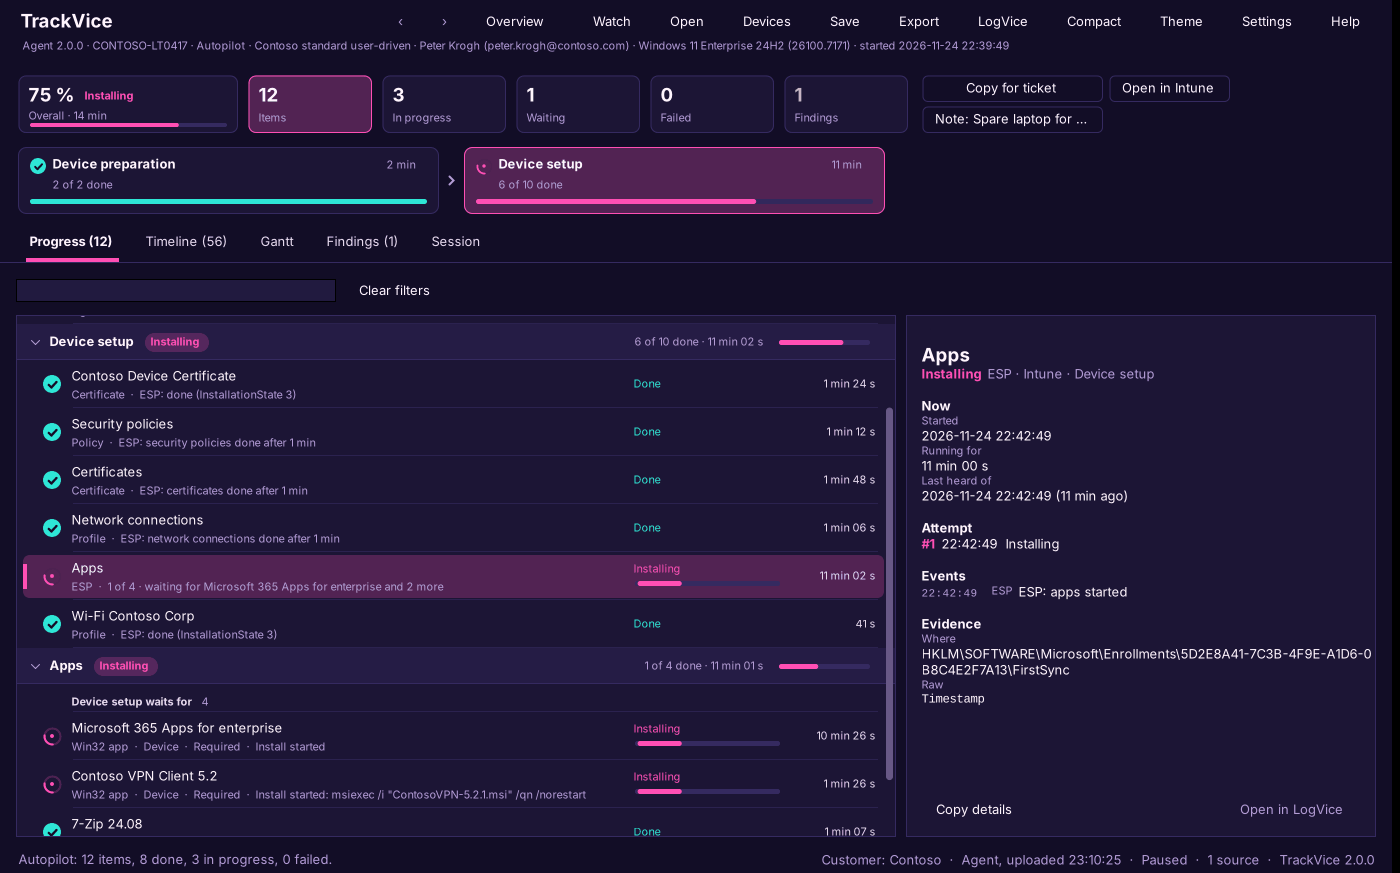
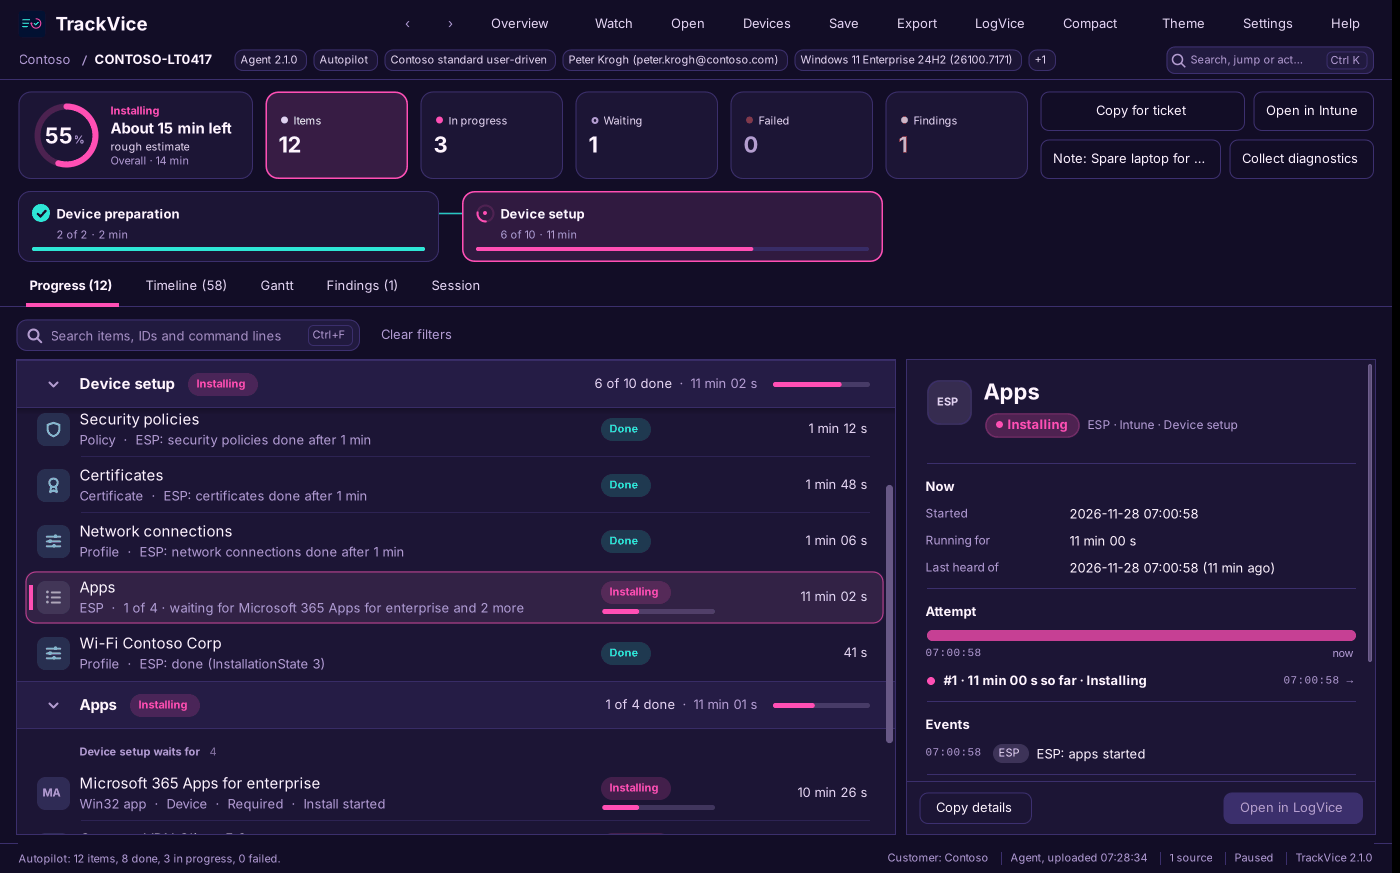
TrackVice 2.1.0: Collect diagnostics, Pre-flight check, customer report, Ctrl+K, and a new look

diff --git a/src/AssemblyInfo.cs b/src/AssemblyInfo.cs
@@ -6,8 +6,8 @@ using System.Runtime.InteropServices;
 [assembly: AssemblyProduct("TrackVice")]
 [assembly: AssemblyCompany("Daniel L. Baldissera")]
 [assembly: AssemblyCopyright("Copyright © 2026 Daniel L. Baldissera")]
-[assembly: AssemblyVersion("2.0.11.0")]
-[assembly: AssemblyFileVersion("2.0.11.0")]
-[assembly: AssemblyInformationalVersion("2.0.11")]
+[assembly: AssemblyVersion("2.1.0.0")]
+[assembly: AssemblyFileVersion("2.1.0.0")]
+[assembly: AssemblyInformationalVersion("2.1.0")]
 [assembly: ComVisible(false)]
 [assembly: System.Runtime.Versioning.TargetFramework(".NETFramework,Version=v4.5", FrameworkDisplayName = ".NET Framework 4.5")]

diff --git a/tests/Stubs.cs b/tests/Stubs.cs
@@ -2,7 +2,7 @@ namespace TrackVice
 {
     public static class Program
     {
-        public static string Version { get { return "2.0.11"; } }
+        public static string Version { get { return "2.1.0"; } }
         public static bool IsAdmin { get { return false; } }
         public static string OsVersion() { return "Test OS"; }
         public static string Location { get { return "TrackVice.exe"; } }

diff --git a/README.md b/README.md
@@ -9,7 +9,7 @@
 </p>
 
 <p align="center">
-  <img alt="Version 2.0.11" src="https://img.shields.io/badge/version-2.0.11-005fb8">
+  <img alt="Version 2.1.0" src="https://img.shields.io/badge/version-2.1.0-005fb8">
   <a href="../../actions/workflows/build.yml"><img alt="Build" src="../../actions/workflows/build.yml/badge.svg"></a>
   <img alt="Windows 10, 11 and Server 2016 or later" src="https://img.shields.io/badge/Windows-10%20%7C%2011%20%7C%20Server%202016%2B-0078d4">
   <img alt=".NET Framework 4.5 or later, included in Windows" src="https://img.shields.io/badge/.NET%20Framework-4.5%2B%20(in%20Windows)-512bd4">
@@ -25,7 +25,17 @@ It can also follow **other devices** from your own PC: Autopilot deployments as 
 
 **[Download the latest release](https://github.com/Baldissera88/TrackVice/releases/latest)**: `TrackVice.msi` or the portable `TrackVice.exe`. It needs .NET Framework 4.5 or later, which Windows 10 and 11 have. The files are not code signed, so SmartScreen warns on the first start. Each release has `SHA256SUMS.txt` with the hash of every file. TrackVice updates itself after that, see [Updates](docs/REFERENCE.md#updates). **Settings > Updates** has Check now, the release page and What's new.
 
-**On this page:** [What's new in 2.0](#whats-new-in-20) · [Quick start](#quick-start) · [Features](#features) · [Same setup on every PC](#same-setup-on-every-pc) · [Permissions](#permissions) · [Troubleshooting](#troubleshooting) · [Privacy](#privacy-and-data) · [More documentation](#more-documentation) · [Build from source](#build-from-source) · [License](#license)
+**On this page:** [What's new in 2.1](#whats-new-in-21) · [Quick start](#quick-start) · [Features](#features) · [Same setup on every PC](#same-setup-on-every-pc) · [Permissions](#permissions) · [Troubleshooting](#troubleshooting) · [Privacy](#privacy-and-data) · [More documentation](#more-documentation) · [Build from source](#build-from-source) · [License](#license)
+
+## What's new in 2.1
+
+- **Collect diagnostics** from a device with the agent: its logs, the MDM diagnostics of Windows, `dsregcmd /status` and the Intune Management Extension registry keys, with one click and without remote access to the device.
+- **Pre-flight check**: paste serial numbers and see, before the devices deploy, whether Intune is ready for them.
+- **Customer report**: a printable report per device or for all devices in a period, as HTML and PDF.
+- **Search, jump or act** with Ctrl+K: devices, actions, pages and settings in one box.
+- **A new look** with the same information: a progress ring with the time left, calmer cards, state pills, details that say what happened, why and what to do, and an Overview that starts with the answer.
+
+The full list is in [CHANGELOG.md](CHANGELOG.md).
 
 ## What's new in 2.0
 
@@ -117,7 +127,9 @@ The guide has every step, the customer code, the storage layout and what to do w
 
 <img src="docs/images/trackvice-overview-narrow.png" width="450" alt="The overview in a narrow window, 700 pixels wide">
 
-When you follow a deployment, the header shows how far it has come, its state and how long it has run. The tiles count items, in progress, waiting, failed and findings, and click to filter. Each phase is a card with its state and progress. **Progress** lists every item under its phase, with a live spinner, tries, duration and its last event. The details pane shows the result with the error decoded, every attempt, the command line, IDs and the raw log line.
+When you follow a deployment, the header shows how far it has come as a ring, the time left with the clock it should be done, its state and how long it has run. The cards count items, in progress, waiting, failed and findings, and click to filter. The phases are connected steps with their state and progress. **Progress** lists every item under its phase, with its state, tries, duration and its last event. The details pane says what happened, the likely why and what to do, shows every attempt on a small timeline, the command line, IDs and the raw log line, with Open in LogVice at that line.
+
+**Ctrl+K** opens one box to search, jump or act: a device, an action on the device in the window, a page or a setting.
 
 ### Timeline, Gantt and Findings
 
@@ -145,6 +157,24 @@ The finding types, and what each deployment type reads from, are in [docs/REFERE
 ![Autopilot deployments from Intune](docs/images/trackvice-intune-list.png)
 
 ![One device with the agent](docs/images/trackvice-agent-device.png)
+
+### Pre-flight check
+
+**Devices > Intune / cloud > Pre-flight check** asks Intune, before a device deploys, whether it will: is the serial number registered in Autopilot with a profile, which groups the device is in, which Enrollment Status Page applies and whether its time limit is enough compared with your earlier deployments, and whether the required apps and their dependencies are assigned. Each device gets **Ready**, **Check** or **Will fail**, with what to fix. It only reads. The permissions are in [docs/REFERENCE.md](docs/REFERENCE.md#pre-flight-check).
+
+<img src="docs/images/trackvice-preflight.png" width="900" alt="Pre-flight check for six serial numbers">
+
+### Collect diagnostics
+
+On a device with the TrackVice agent, **Collect diagnostics** asks the agent for its logs, the MDM diagnostics of Windows (Autopilot, enrollment, provisioning and TPM), `dsregcmd /status` and the Intune Management Extension registry keys. The request is signed with your update key, is for that one device, is valid for 2 hours and is used once, and the agent only runs its own fixed list of tools. The result opens in LogVice or is saved as a zip. See [docs/AGENT.md](docs/AGENT.md#collect-diagnostics).
+
+<img src="docs/images/trackvice-diagnostics.png" width="620" alt="Collect diagnostics, uploaded">
+
+### Customer report
+
+**Export > Customer report (PDF)** makes a clean report of one deployment to hand to the customer: the result, the phases, every app, policy and step, what TrackVice found, network outages and restarts, with secrets masked. **Report...** on Overview makes one for all devices in a period, with the key figures, a chart per day and a page per device. It is saved as HTML and, with Microsoft Edge on the PC, as PDF.
+
+<img src="docs/images/trackvice-customer-report.png" width="620" alt="A customer report for one device">
 
 ### Compare, Statistics and Reference
 

diff --git a/CHANGELOG.md b/CHANGELOG.md
@@ -1,5 +1,22 @@
 # Changelog
 
+## TrackVice 2.1.0
+
+28 November 2026.
+
+- **Collect diagnostics**: on a device with the TrackVice agent, Collect diagnostics asks the agent for its logs, the MDM diagnostics of Windows (Autopilot, enrollment, provisioning and TPM), `dsregcmd /status` and the Intune Management Extension registry keys. The request is signed with your update key, belongs to that one device, is valid for 2 hours and is used once. The agent only runs its own fixed list of tools; nothing in the request is run. The window shows Requested, Received, Collecting and Uploaded, then Open in LogVice or Save zip. The agent needs 2.1.0 or later: publish it with Publish agent update.
+- **Pre-flight check** (Devices > Intune / cloud): paste one or more serial numbers and TrackVice asks Intune whether each device will deploy: the Autopilot registration and profile, the device's groups, the Enrollment Status Page with its time limit compared with your earlier deployments, and the required apps with their dependencies and supersedence. Every device gets Ready, Check or Will fail, with what to fix. Read only. Copy as text.
+- **Customer report**: Export > Customer report (PDF) for one device, and Report... on Overview for all devices in a period. A clean, printable page with the result, the phases, every app, policy and step, what TrackVice found, network outages and restarts. It is saved as HTML and, with Microsoft Edge on the PC, as PDF. Secrets are masked as in Copy for ticket.
+- **Search, jump or act (Ctrl+K)**: one box for devices, the actions on the device in the window, pages and settings.
+- **A new look**, with the same information:
+  - The top of the device view has a progress ring with the time left, calmer number cards, and phases as connected steps. In a narrow window every card stays.
+  - The Progress list has a tile per kind, state pills, a bar under what is running, and phase headers that stay at the top while you scroll.
+  - The details of an item say what happened, the likely why and what to do, show the attempts on a small timeline, and put the evidence in a box with Open in LogVice at this line.
+  - Overview opens with the answer ("6 deploying · 3 need attention"), key figures, device cards with rings, a chart of the last 7 days and cards for what needs attention.
+  - The header shows where you are and the device's facts as chips. Compact, Wall, Gantt, Timeline, Findings, buttons, switches, tabs and the settings pages are redrawn.
+  - In the Vice theme, failures are red instead of pink, so they never look like the accent.
+  - Short animations, which are off when Windows animations are off or over Remote Desktop.
+
 ## TrackVice 2.0.11
 
 25 November 2026.

diff --git a/docs/RELEASE.md b/docs/RELEASE.md
@@ -109,7 +109,7 @@ How a release is made, on the author's Windows PC. `release.ps1` does the build,
 
 ## Screenshots for the documentation
 
-The pictures in `docs/images/` come from the demos, so they hold no real data. Retake them when the look of a window changes, and for every major version, so the version in the status bar is right (the current ones show TrackVice 2.0.0).
+The pictures in `docs/images/` come from the demos, so they hold no real data. Retake them when the look of a window changes, and for every major version, so the version in the status bar is right (the current ones show TrackVice 2.1.0).
 
 Each picture is one command. `--page` chooses the window (the names are in the `--page` comments in `src/`, for example `overview`, `getstarted`, `yourstorage`, `addcustomer`, `keyvault`, `vaultsetup`, `names`, `downloads-confirm`, `publish`, `stats`, `compare`, `wall`, `tsagent`), `--tab` the step or tab, `--size` the size of the window and `--theme` the theme:
 

diff --git a/docs/REFERENCE.md b/docs/REFERENCE.md
@@ -109,7 +109,7 @@ Findings say why something failed where the sources tell:
 - Microsoft 365 Apps and MSI apps from the MDM client show the status they reported, with its meaning.
 - **Not detected after install** shows the last detection result that was seen.
 
-![Findings for a failed task sequence](images/trackvice-findings-dark.png)
+![Findings for a failed Win32 app](images/trackvice-findings-dark.png)
 
 ## Gantt
 

diff --git a/ROADMAP.md b/ROADMAP.md
@@ -2,7 +2,7 @@
 
 What is planned for the next version of TrackVice.
 
-Everything released so far is in CHANGELOG.md (latest: TrackVice 2.0.11).
+Everything released so far is in CHANGELOG.md (latest: TrackVice 2.1.0).
 
 ## 1. First use in a few minutes: Quick start
 
